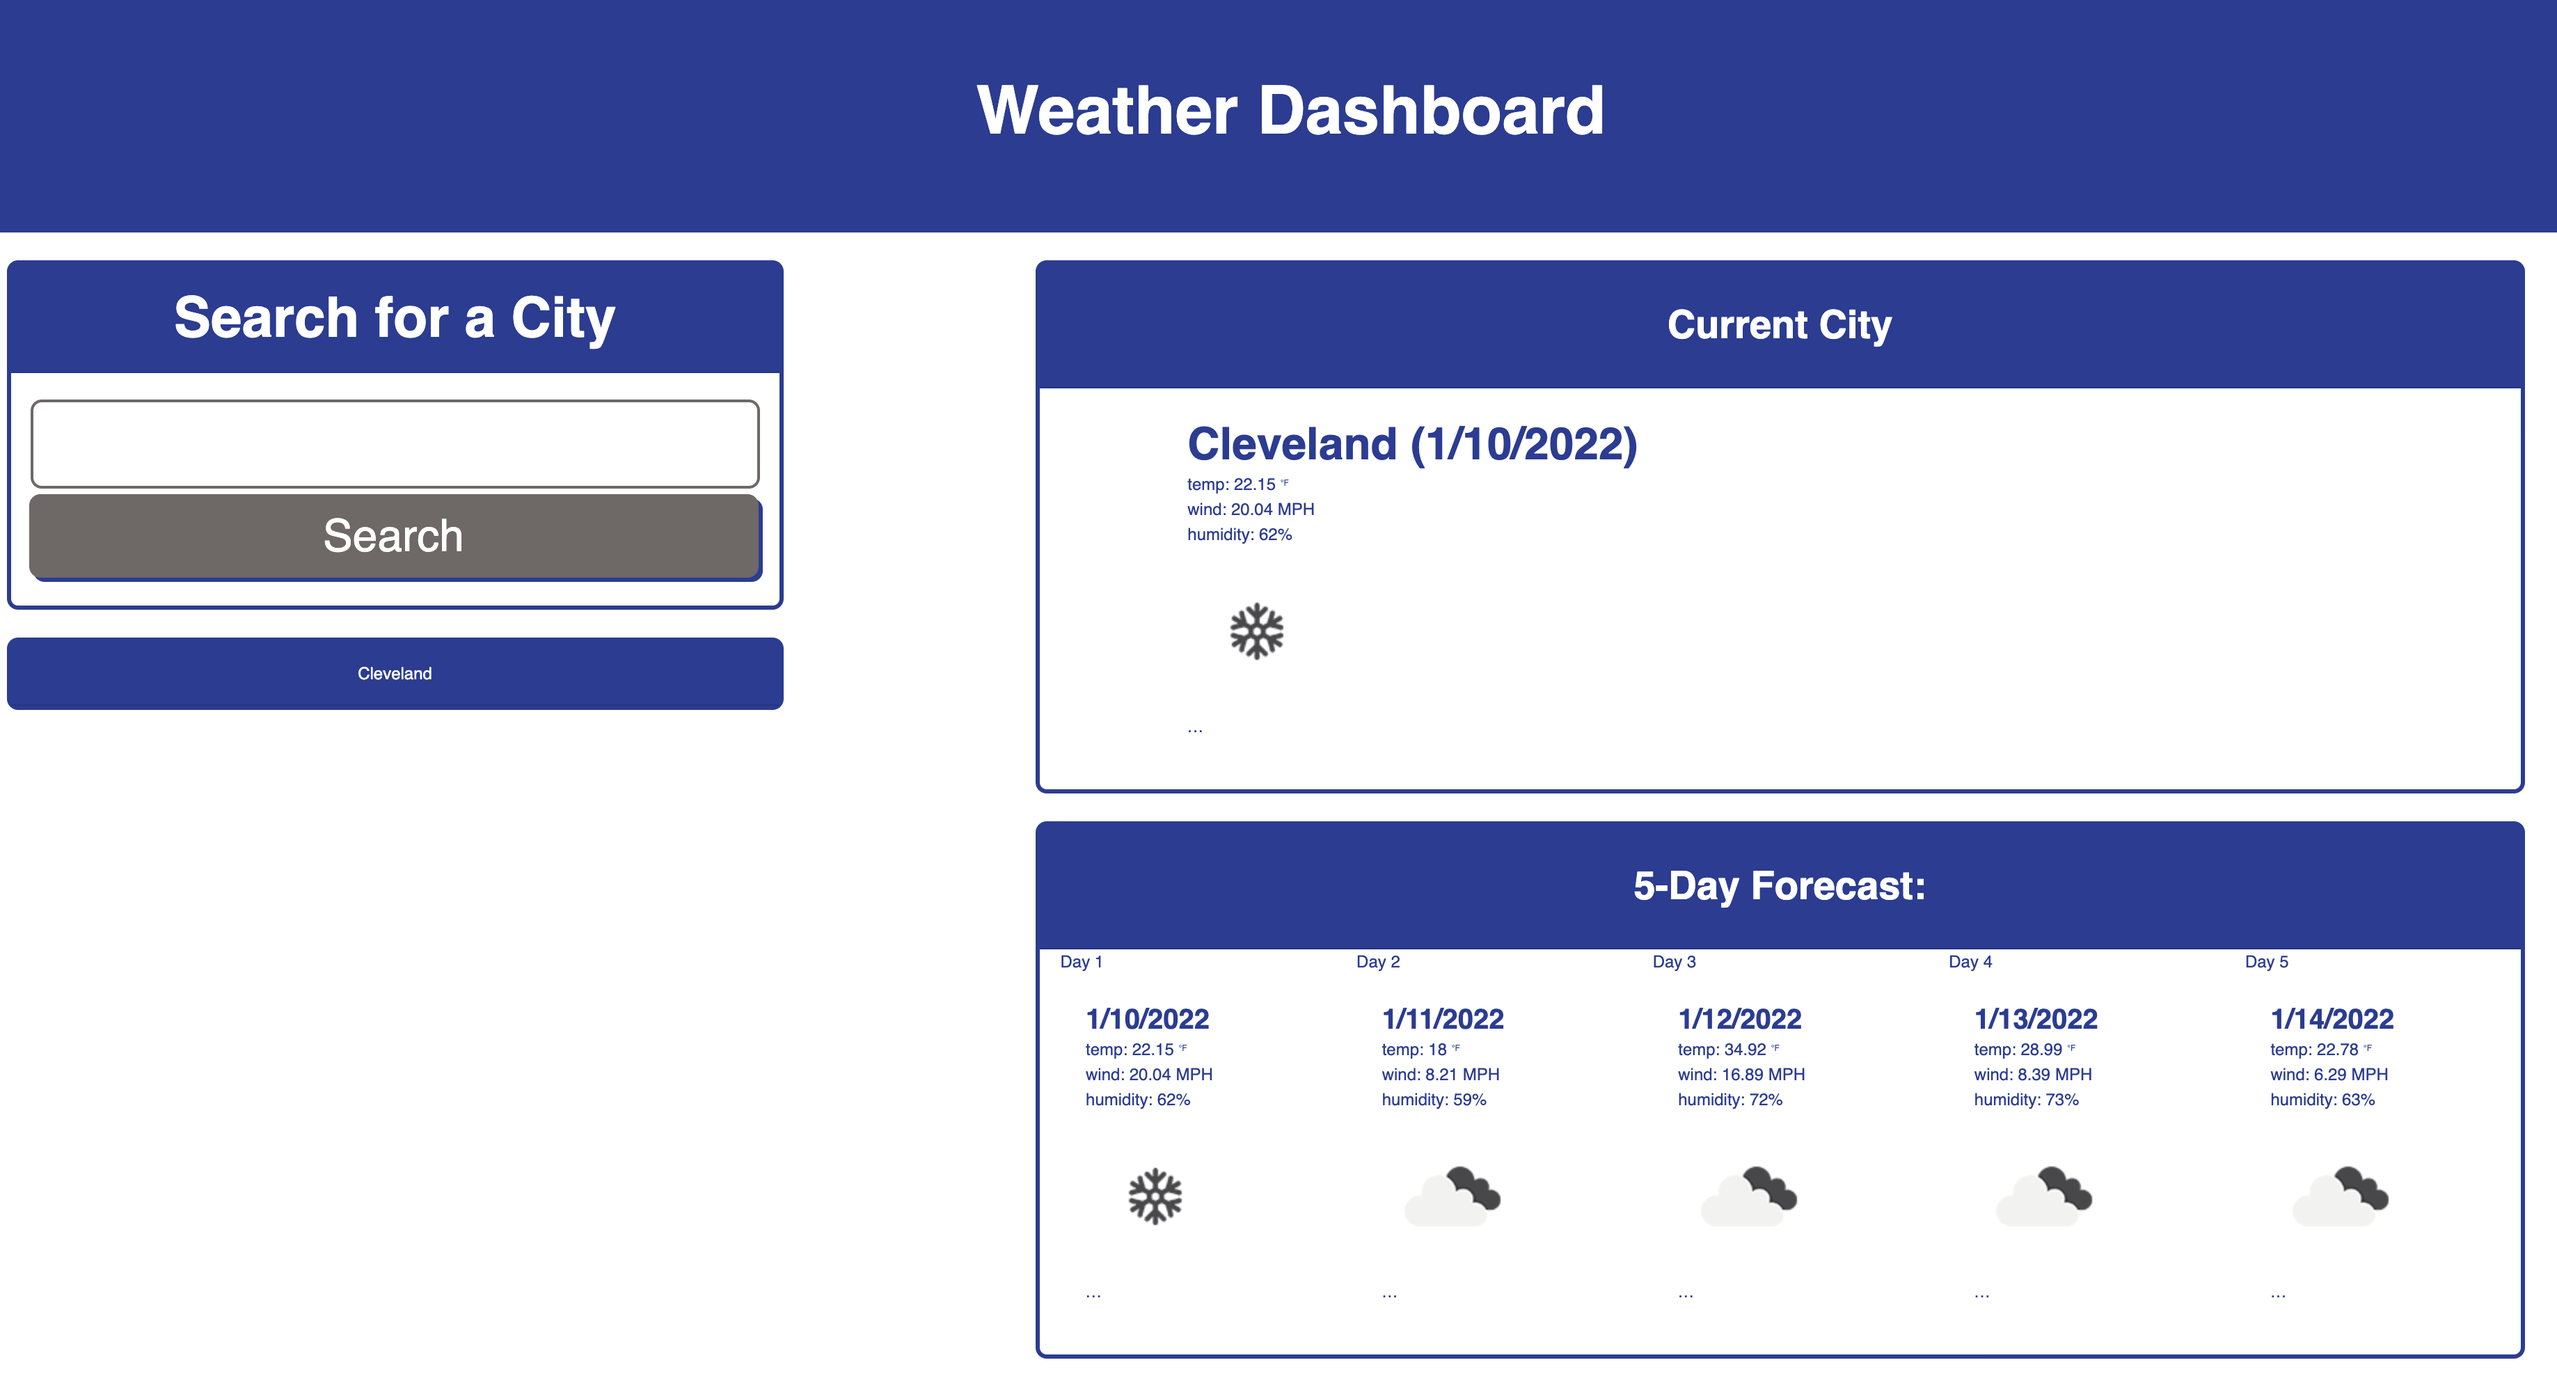
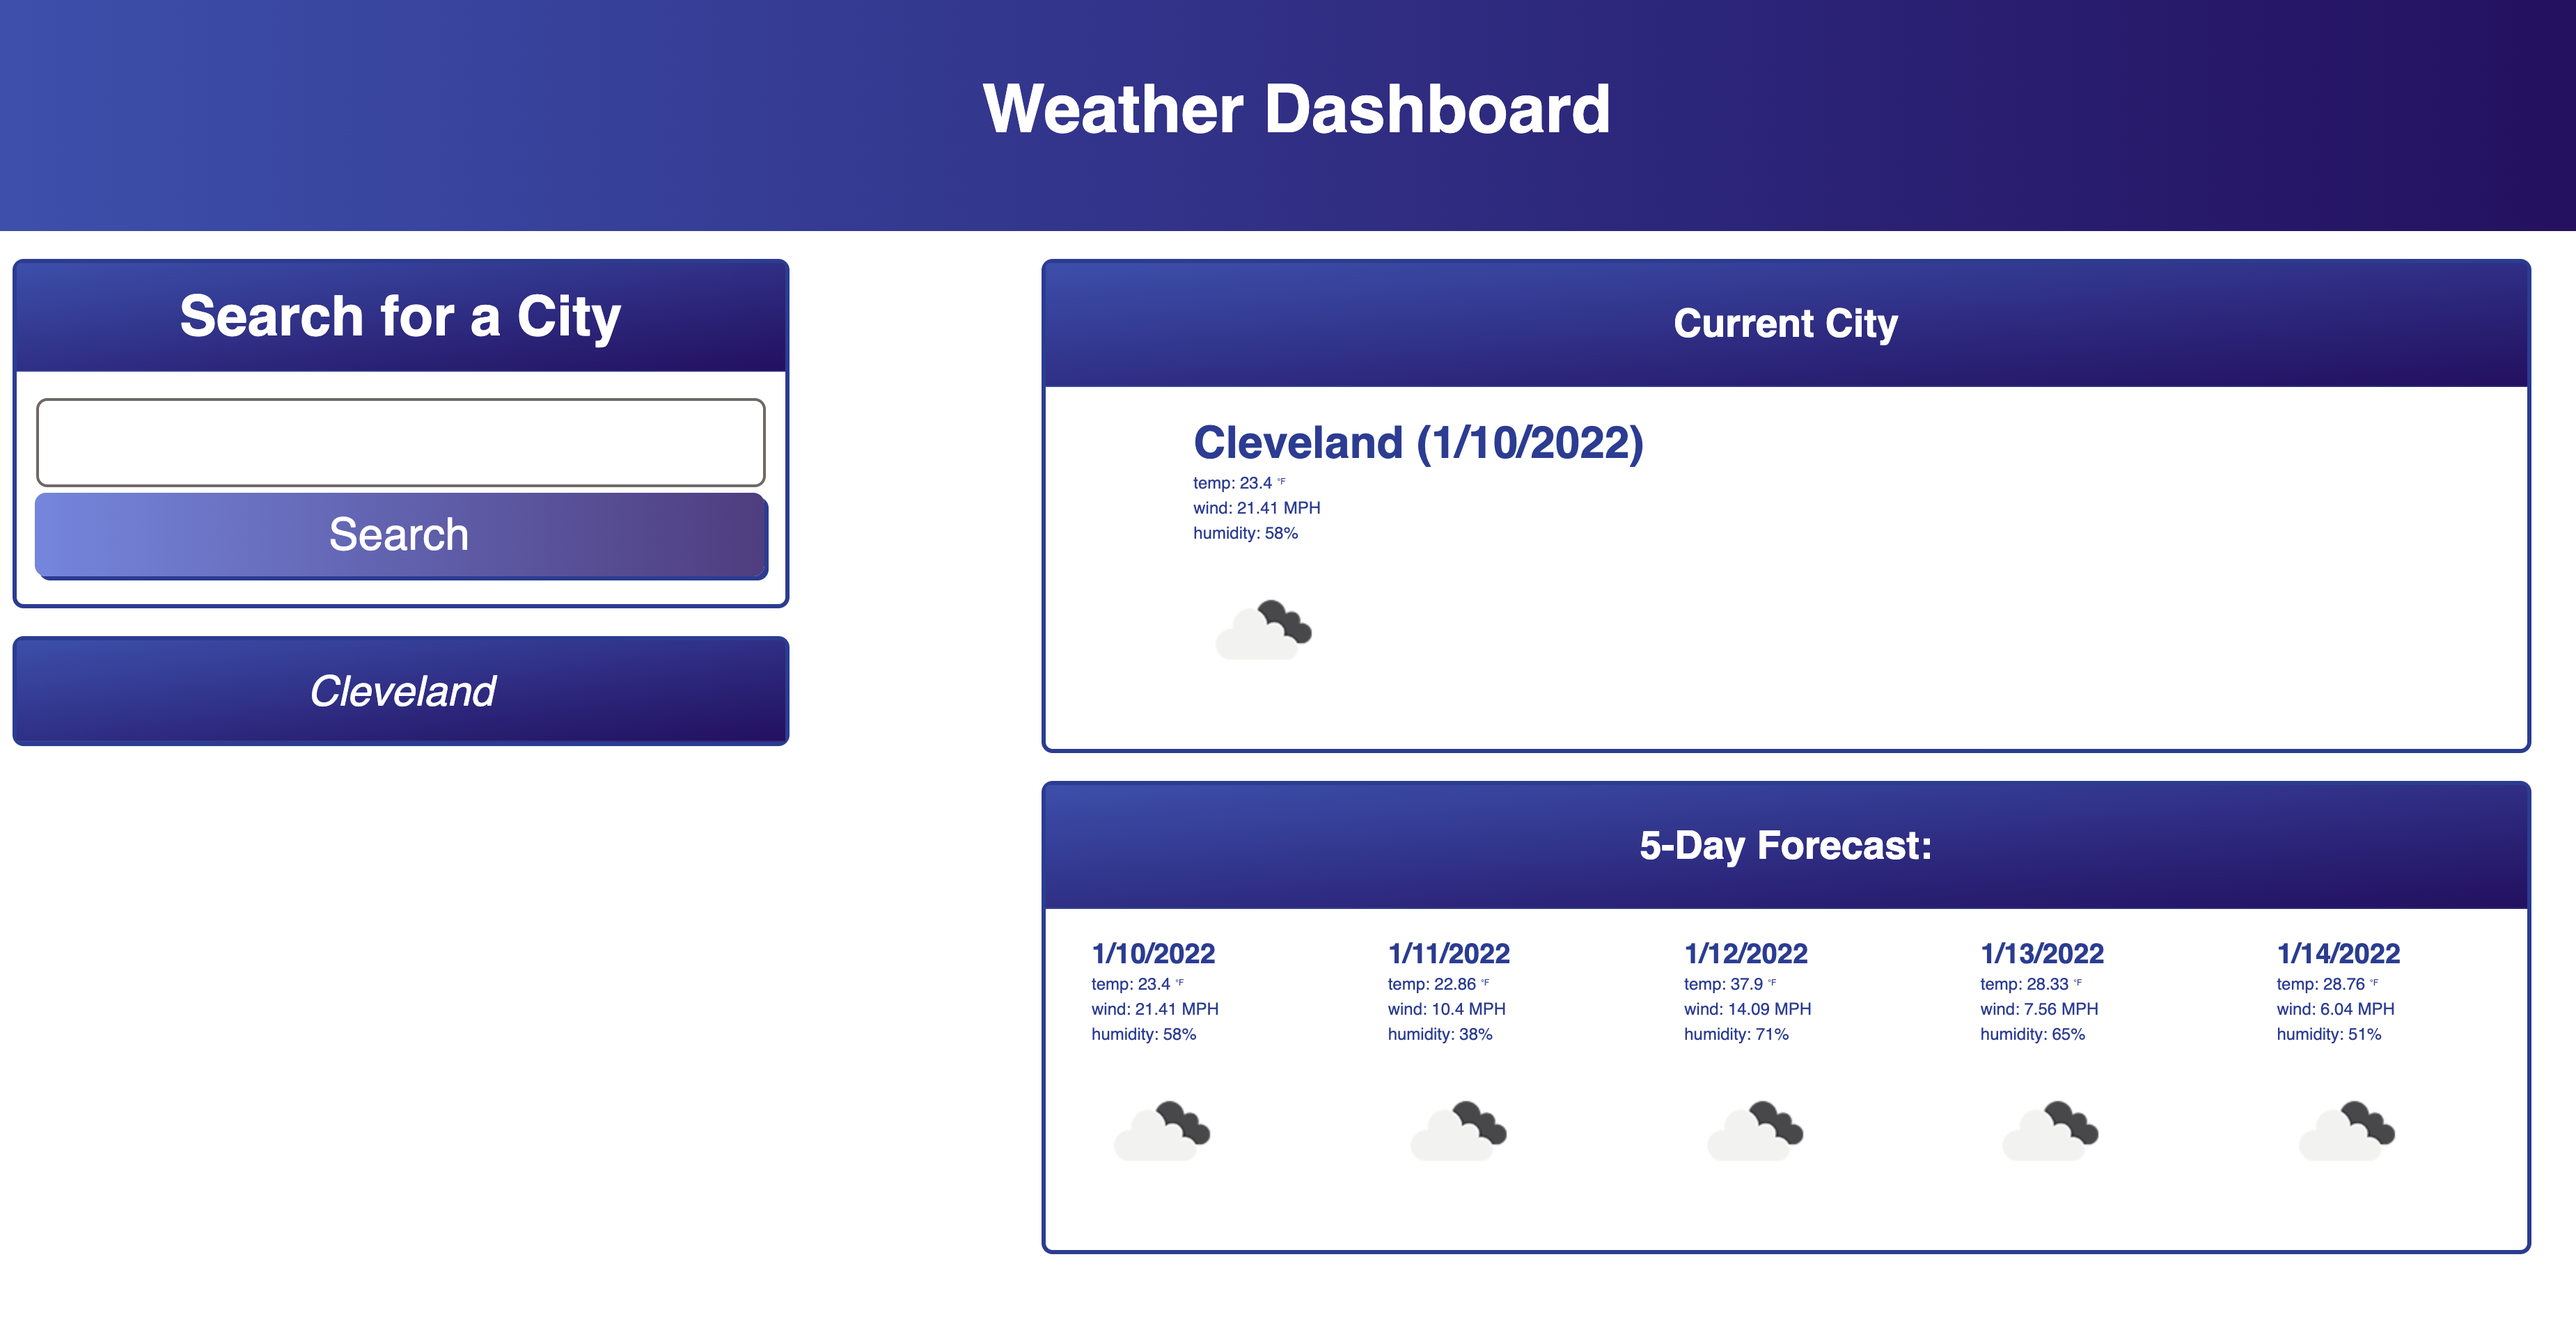
page style improved

diff --git a/index.html b/index.html
@@ -65,7 +65,8 @@
 
                         <figure>
[1 lines of base64/hex data omitted]
-                            <figcaption>...</figcaption>
+                            <!--placeholder for UV index -->
+                            <!-- <figcaption>...</figcaption>  -->
                         </figure>
                     </div>
             </div>
@@ -75,7 +76,7 @@
                 
                 <div class="container">
                     <div class="row">
-                        <div class="col-sm">Day 1 
+                        <div class="col-sm">
                             <div class="city" id="day-0">
                                 <h5><div id="city-date-0"></div></h5>
                                
@@ -84,11 +85,12 @@
                                 <div id="city-humidity-0"></div>
                                 <figure>
[1 lines of base64/hex data omitted]
-                                    <figcaption>...</figcaption>
+                                    <!--placeholder for UV index -->
+                                    <!-- <figcaption>...</figcaption>  -->
                                 </figure>
                             </div>
                         </div>
-                        <div class="col-sm">Day 2
+                        <div class="col-sm">
                             <div class="city" id="day-1">
                                 <h5><div id="city-date-1"></div></h5>
                                
@@ -97,12 +99,13 @@
                                 <div id="city-humidity-1"></div>
                                 <figure>
[1 lines of base64/hex data omitted]
-                                    <figcaption>...</figcaption>
+                                    <!--placeholder for UV index -->
+                                    <!-- <figcaption>...</figcaption>  -->
                                 </figure>
                             </div >
                         </div>
 
-                        <div class="col-sm">Day 3 
+                        <div class="col-sm">
                             <div class="city" id="day-2">
                                 <h5><div id="city-date-2"></div></h5>
                                
@@ -111,12 +114,13 @@
                                 <div id="city-humidity-2"></div>
                                 <figure>
[1 lines of base64/hex data omitted]
-                                    <figcaption>...</figcaption>
+                                    <!--placeholder for UV index -->
+                                    <!-- <figcaption>...</figcaption>  -->
                                 </figure>
                             </div>
                         </div>
 
-                        <div class="col-sm">Day 4 
+                        <div class="col-sm">
                             <div class="city" id="day-3">
                                 <h5><div id="city-date-3"></div></h5>
                                
@@ -125,11 +129,12 @@
                                 <div id="city-humidity-3"></div>
                                 <figure>
[1 lines of base64/hex data omitted]
-                                    <figcaption>...</figcaption>
+                                    <!--placeholder for UV index -->
+                                    <!-- <figcaption>...</figcaption>  -->
                                 </figure>
                             </div >
                         </div>
-                        <div class="col-sm">Day 5 
+                        <div class="col-sm">
                             <div class="city" id="day-4">
                                 <h5><div id="city-date-4"></div></h5>
                                
@@ -138,7 +143,8 @@
                                 <div id="city-humidity-4"></div>
                                 <figure>
[1 lines of base64/hex data omitted]
-                                    <figcaption>...</figcaption>
+                                     <!--placeholder for UV index -->
+                                    <!-- <figcaption>...</figcaption>  -->
                                 </figure>
                             </div>
                         </div>

diff --git a/assets/css/style.css b/assets/css/style.css
@@ -33,7 +33,11 @@ main {
   margin: 20px auto;
   width: 100%;
 }
-  
+
+#recent-searches {
+  font-size: 30px;
+  font-style: italic;
+}
 /* AJAX portions */
   .ajax-section .city {
     position: relative;
@@ -99,7 +103,7 @@ main {
   color: var(--primary);
   border: none;
   outline: none;
-  background-color: var(--light-dark);
+  background: linear-gradient(to right, rgb(111, 134, 227), rgb(82, 59, 131));
   box-shadow: 3px 3px var(--dark);
   transform: translate(-1px, -1px);
 }
@@ -141,7 +145,7 @@ main {
 /* hero styling */
 .hero {
   padding: 3% 4%;
-  background-color: var(--dark);
+  background: linear-gradient(to right, rgb(54, 79, 177), rgb(39, 13, 99));
   color: var(--primary);
 }
  
@@ -151,8 +155,7 @@ main {
   padding: 0 10px;
   text-align:center;
 }
-  
- 
+   
 /* icon styles ??? KEEP????   
   .icon-danger {
     color: rgb(255, 70, 70);
@@ -172,7 +175,7 @@ main {
   
 .card-header {
   color: var(--primary);
-  background-color: var(--dark);
+  background: linear-gradient(to bottom right, rgb(54, 79, 177), rgb(39, 13, 99));
   padding: 2.5%;
   border-radius: calc(.18rem - 1px) calc(.18rem - 1px) 0 0;
   text-align: center;

diff --git a/assets/js/script.js b/assets/js/script.js
@@ -31,7 +31,7 @@ form.addEventListener("submit", e => {
 
       // if the code key is not 200, input is invalid for search
       if(data.cod !== null && data.cod !== '200'){
-        //earch error
+        //search error
         window.alert(inputVal + ' is not a real city... please select a valid city');
         Promise.resolve();
         return;
